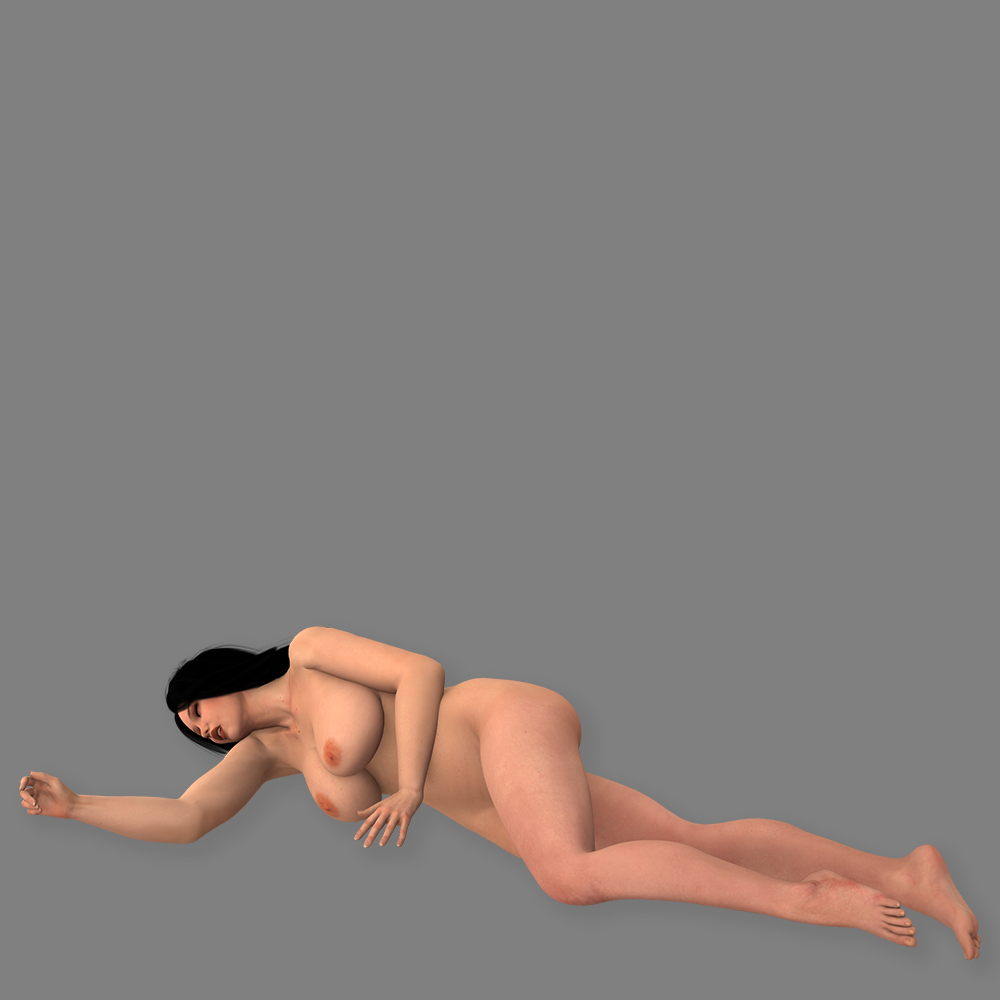
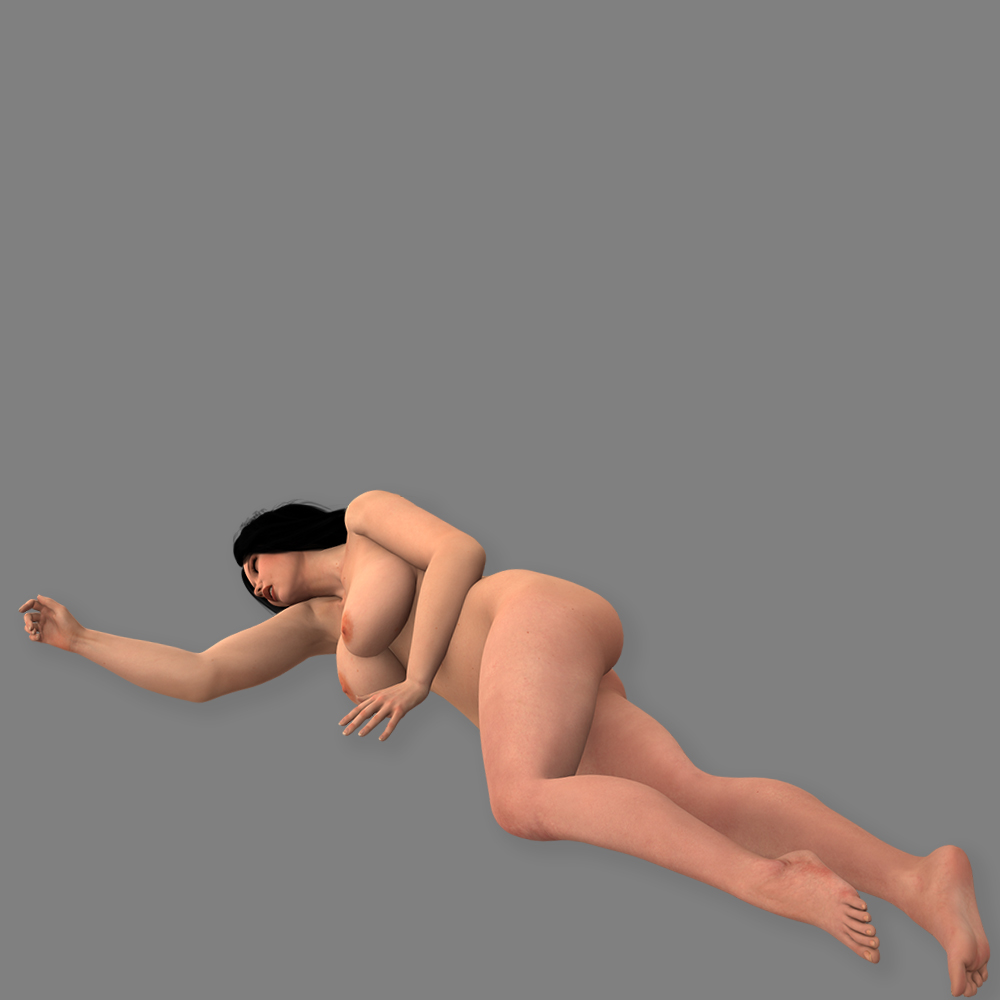
Minor Ch13 update

Changed region(s): [[0.0, 0.465, 0.992, 1.0]]

diff --git a/static/chapter13/game/game_end_sleepy.html b/static/chapter13/game/game_end_sleepy.html
@@ -50,7 +50,7 @@ setVar("ch13_end_sleepy", 1);
 
 <div align="center">
 
-<table width="100%" height="2000" border="0" background="buttonsetc/endcards/endcard_sleepy_ch13.jpg" bgcolor="#808080">
+<table width="100%" height="1000" border="0" background="buttonsetc/endcards/endcard_sleepy_ch13.jpg" bgcolor="#808080">
 
   <tr>
 <td valign="top">
